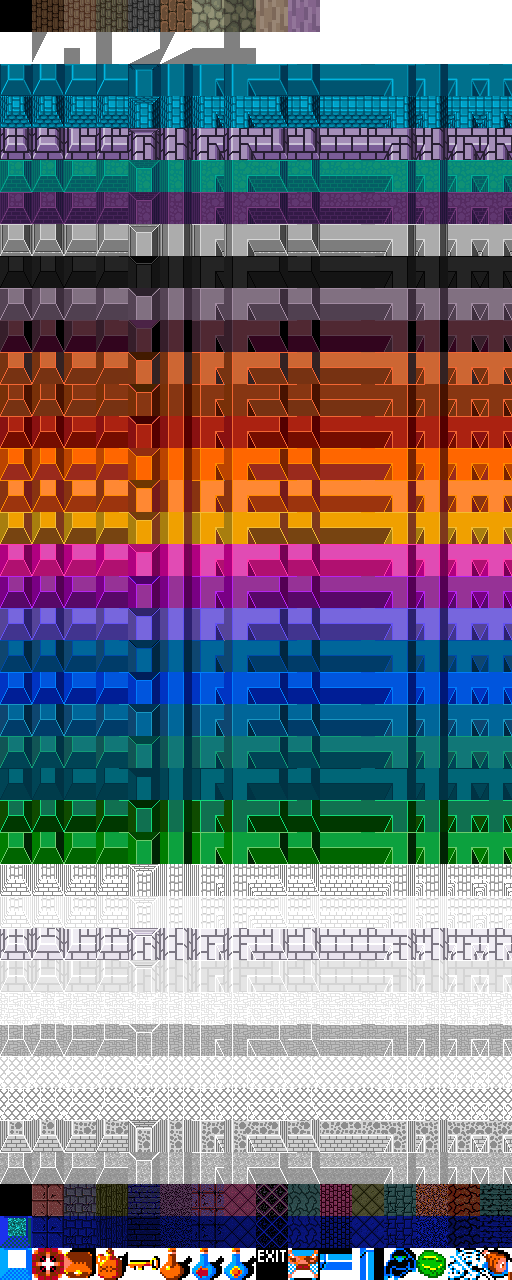
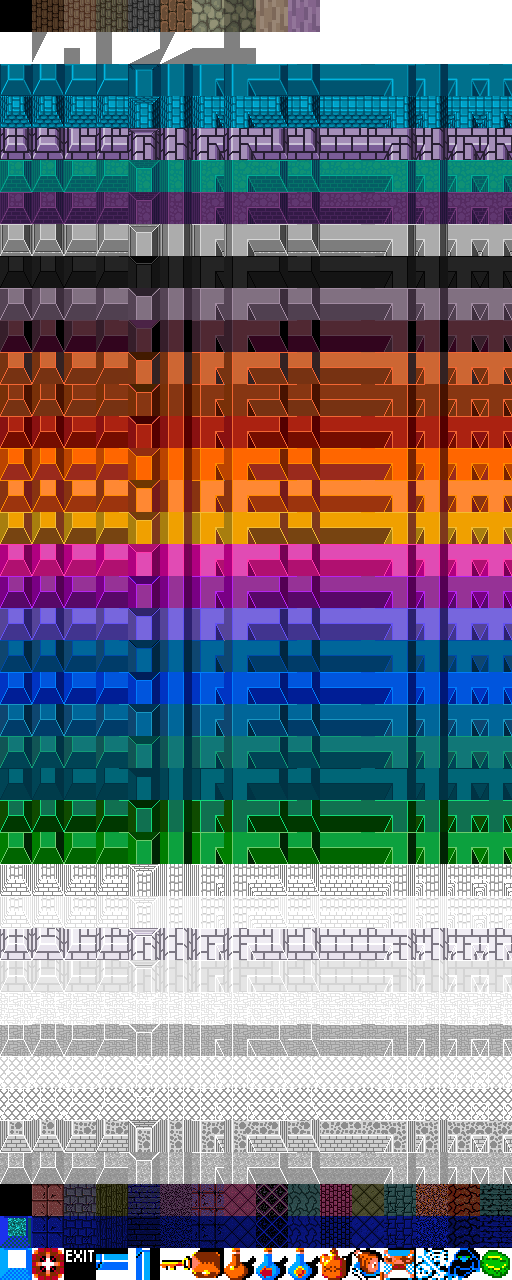
fix shot potion bug, touching fake gives fooled msg

Changed region(s): [[0.125, 0.9688, 1.0, 1.0]]

diff --git a/js/gauntlet.js b/js/gauntlet.js
@@ -30,7 +30,7 @@ Gauntlet = function() {
 		levelplus, refpixel, shotpot, slowmonster = 1, announcepause = false,
 //	custom g1 tiler on 0x00000F code of floor tiles - save last tile & last cell
 // FCUSTILE is after brikover last wall cover in backgrounds.png
-		ftilestr, fcellstr, FCUSTILE = 37, FDESTWALL = 38,
+		ftilestr, fcellstr, FCUSTILE = 37, FDESTWALL = 38, FAKES = 39,
 
 		 MEXHIGH = 0xFFFFF0,
 		 MEXLOW = 0x00000F,
@@ -111,8 +111,8 @@ Gauntlet = function() {
 // shootable wall - see grid 38 of backgrounds
         SHOTWALL:       { sx: 0, sy: 38, frames:1, speed: 1*FPS, fpf: FPS/4, canbeshot: 2, health:14, wall:true,   sound: 'collectpotion' , help: "Some walls may be destroyed", nohlp: 7 },
 // shotable and non-shot fake items, see grid 39 of backgrounds
-        SHOTFAKER:       { sx: 0, sy: 39, frames:1, speed: 1*FPS, fpf: FPS/4, canbeshot: 2, health:14, wall:true,   sound: 'collectpotion' , help: "Fooled you!", nohlp: 29 },
-        PERMFAKER:       { sx: 0, sy: 39, frames:1, speed: 1*FPS, fpf: FPS/4, canbeshot: false, wall:true,   sound: 'collectpotion' , help: "Fooled you!", nohlp: 29 },
+        SHOTFAKER:       { sx: 0, sy: 39, frames:1, speed: 1*FPS, fpf: FPS/4, canbeshot: 2, health:14, wall:true,   sound: 'collectpotion' , help: "Fooled you!  Some items may be fake", nohlp: 29 },
+        PERMFAKER:       { sx: 0, sy: 39, frames:1, speed: 1*FPS, fpf: FPS/4, canbeshot: false, wall:true,   sound: 'collectpotion' , help: "Fooled you!  Some items may be fake", nohlp: 29 },
         XSHOTPWR:       { sx: 10, sy: 11, frames:1, speed: 1*FPS, fpf: FPS/4, powers: true, potion: true, canbeshot: 2,   sound: 'collectpotion', help: "You got extra shot power", nohlp: 11  },
         XSHOTSPD:       { sx: 11, sy: 11, frames:1, speed: 1*FPS, fpf: FPS/4, powers: true, potion: true, canbeshot: 2,   sound: 'collectpotion', help: "You got extra shot speed", nohlp: 12  },
         XARMOR:       { sx: 12, sy: 11, frames:1, speed: 1*FPS, fpf: FPS/4, powers: true, potion: true, canbeshot: 2,   sound: 'collectpotion', help: "You got extra armor", nohlp: 13  },
@@ -1613,7 +1613,6 @@ var ymir = false, xmir = false;
 /// message - "dont shoot the {x}"
     hurt: function(damage, by, nuke) {
 		 if (by.weapon && this.type.canbeshot == 2 && !nuke) {
-			 shotpot = 0.8;	// shot potions are weaker
 				if (this.type.wall)
 				{
 						if (this.type.nohlp != undefined)
@@ -1635,6 +1634,7 @@ var ymir = false, xmir = false;
 								{$('help').update(helpdsf).show(); setTimeout(game.onleavehelp.bind(this), 2000); announcepause = true;}
 						}
 				}
+			 shotpot = 0.8;	// shot potions are weaker
 				if (this.type.potion)
 				{
 						if (HELPCLEAR[nohlpsap])
@@ -1902,7 +1902,17 @@ var ymir = false, xmir = false;
 
     collect: function(treasure) {
 
-      if (treasure.type.wall) return; //shot wall, go back
+      if (treasure.type.wall)
+		 {3
+				if (treasure.type.sy == FAKES)
+				if (treasure.type.nohlp != undefined)
+				if (HELPCLEAR[treasure.type.nohlp])
+				{
+						HELPCLEAR[treasure.type.nohlp] = helpcleared;
+						if (treasure.type.help != undefined) {$('help').update(treasure.type.help).show(); setTimeout(game.onleavehelp.bind(this), 2000); announcepause = true;}
+				}
+				return; //shot wall, go back
+		 }
 
       this.addscore(treasure.type.score);
 
